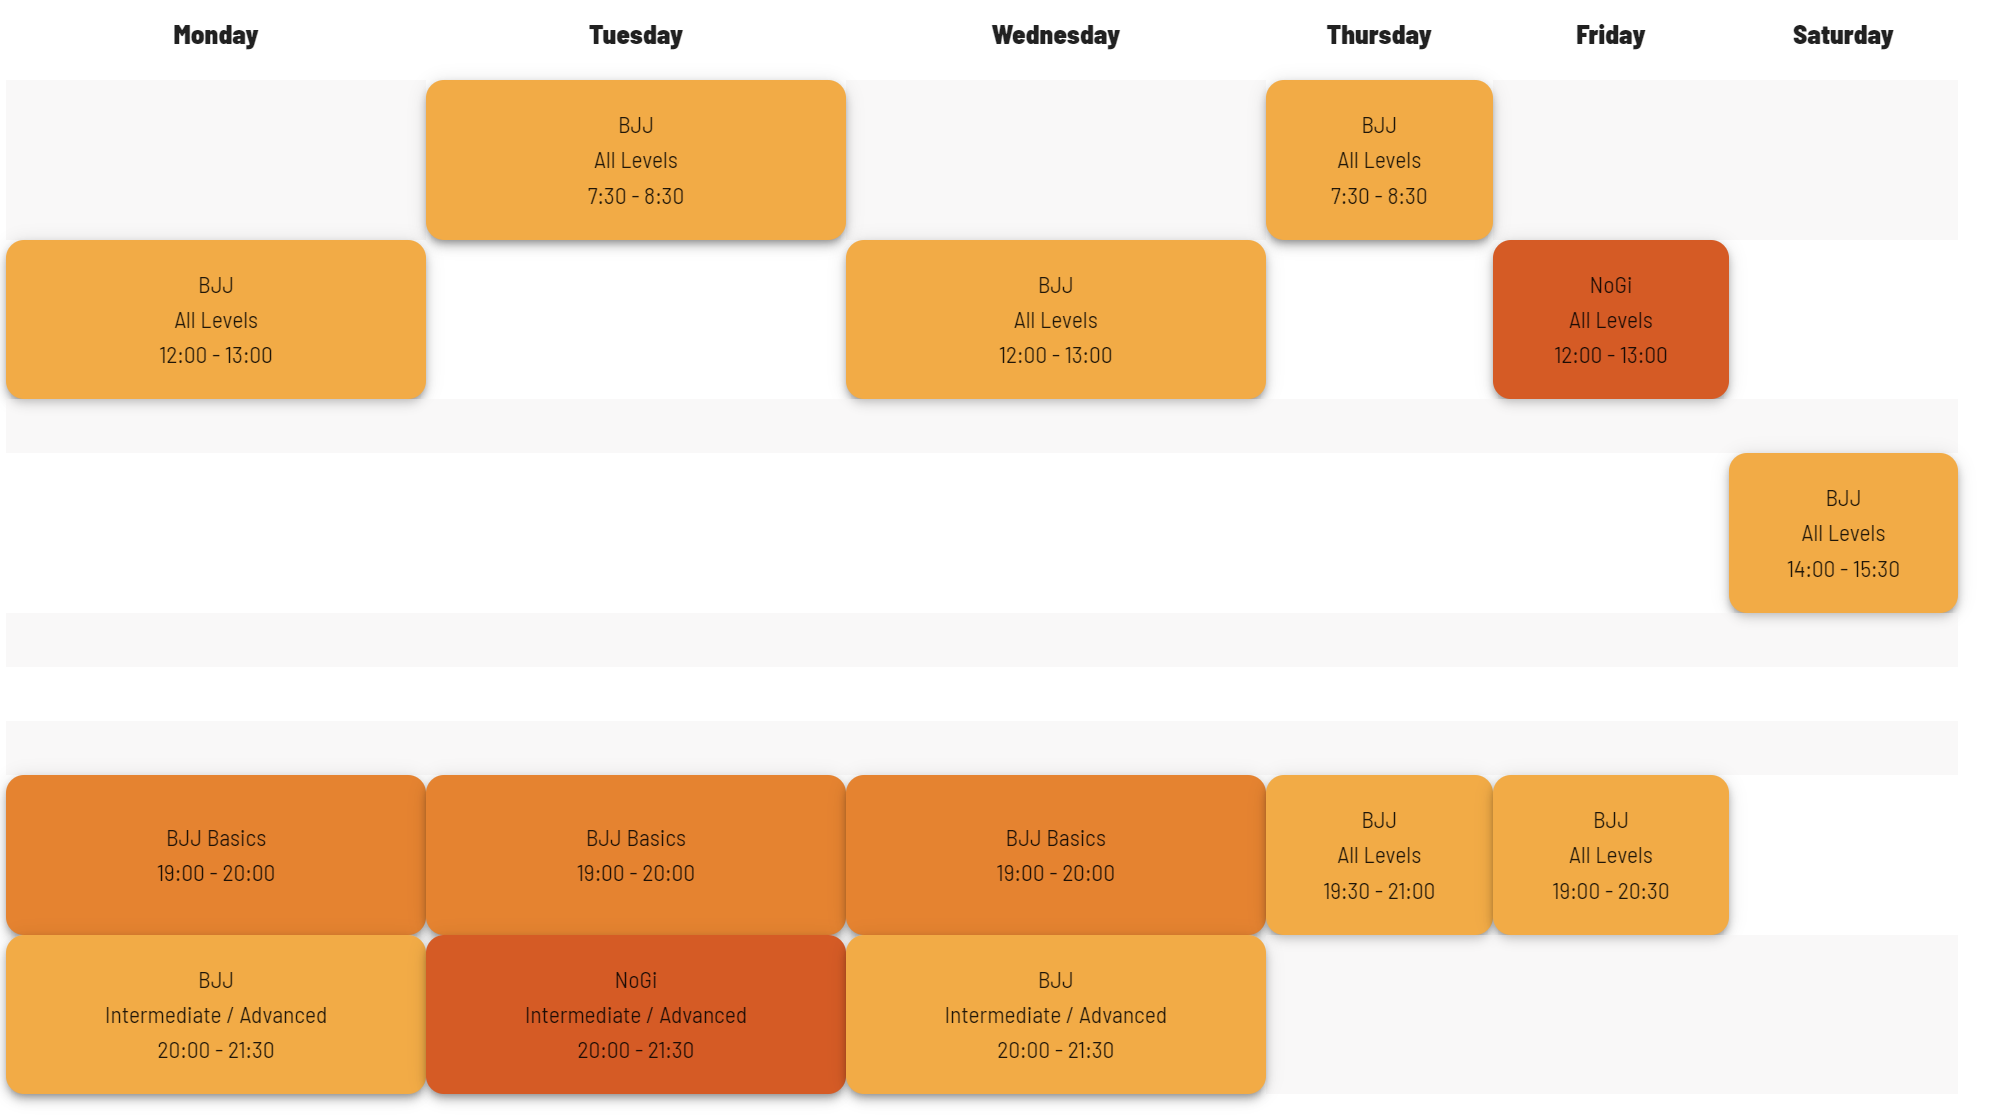
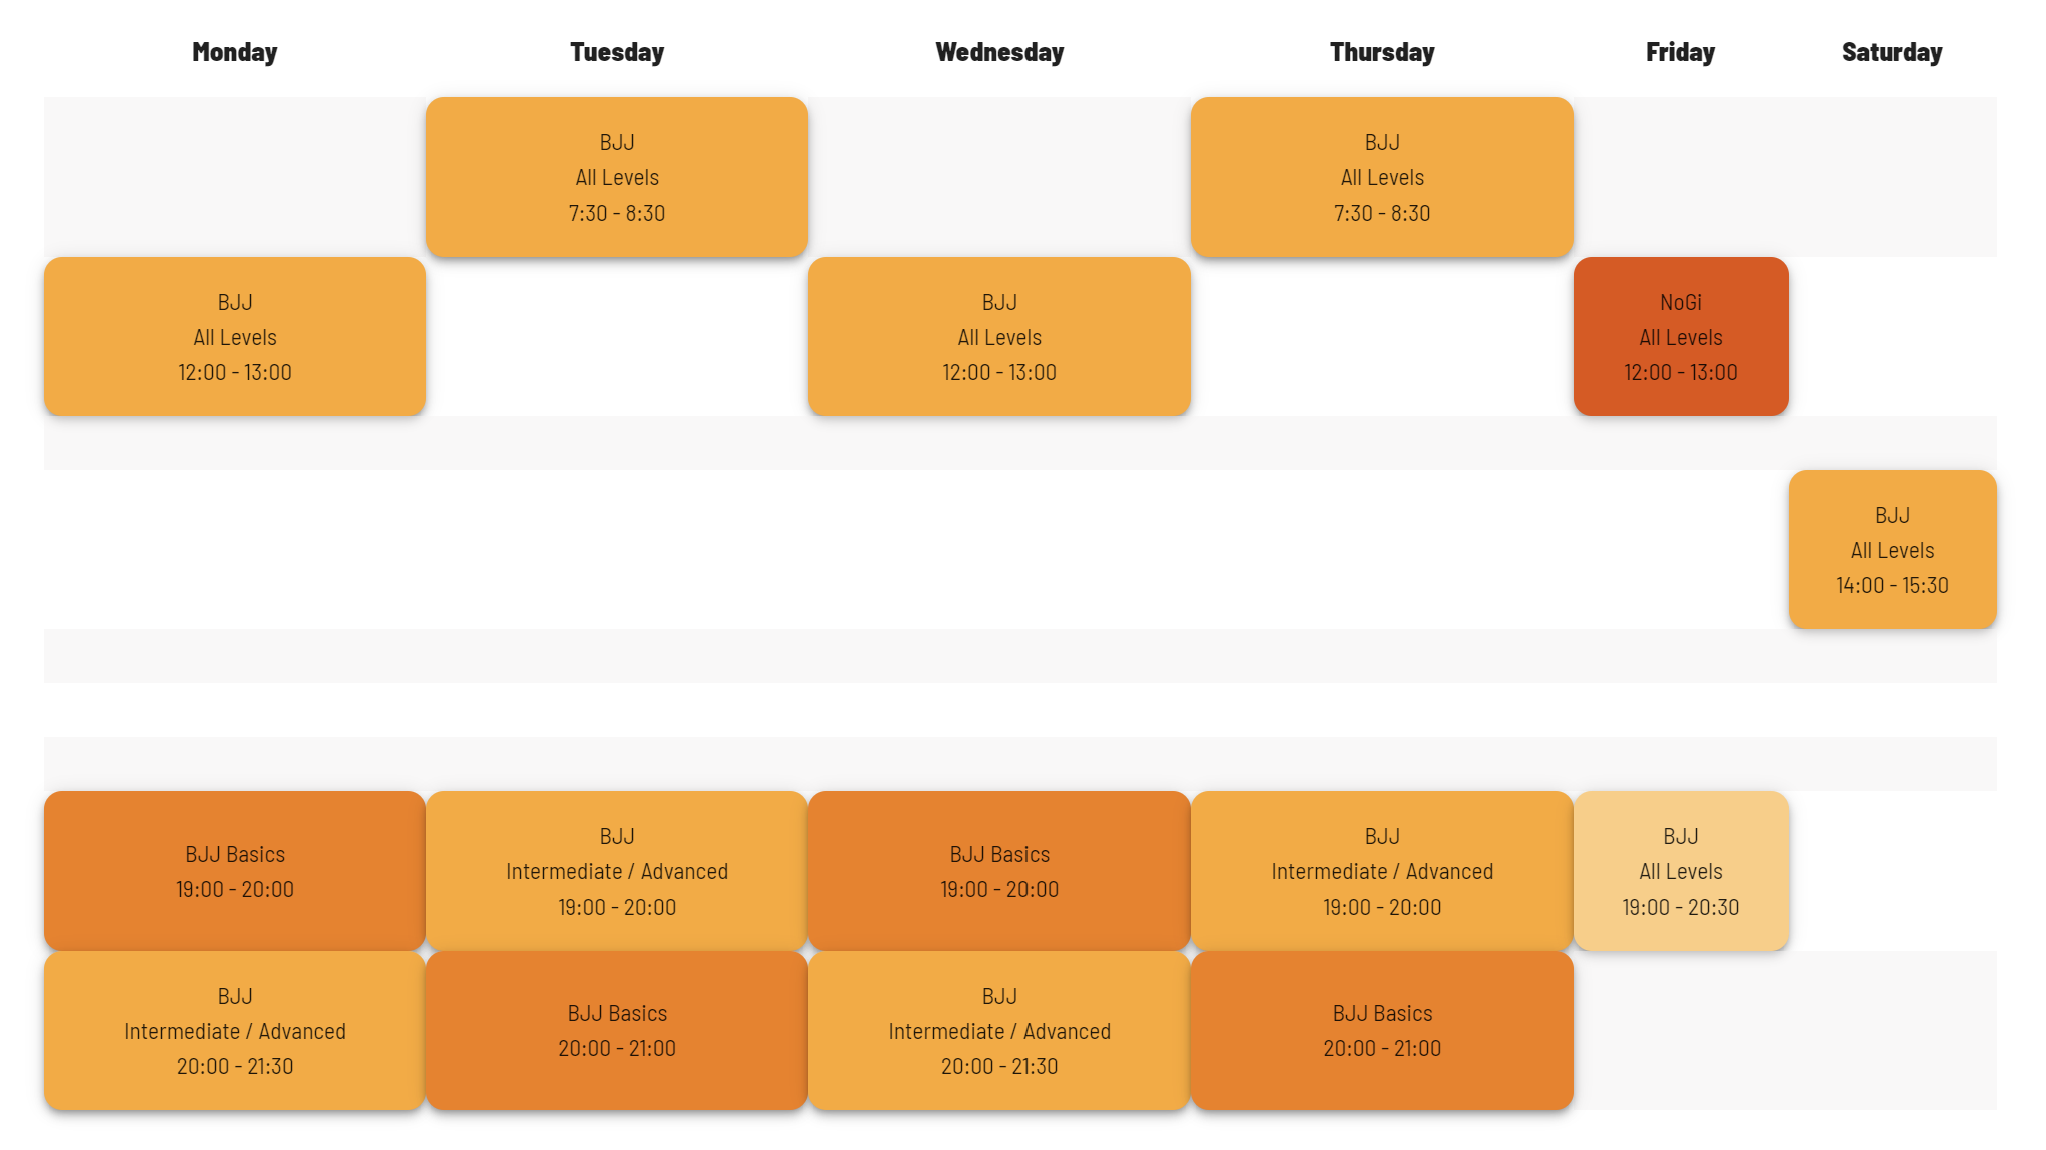
changes adult time tables

diff --git a/src/components/layout/AdultsTable.vue b/src/components/layout/AdultsTable.vue
@@ -75,8 +75,9 @@
 					<p>BJJ Basics</p>
 					<p>19:00 - 20:00</p>
 				</td>
-				<td class="center-align orange darken-2 z-depth-2">
-					<p>BJJ Basics</p>
+				<td class="center-align orange lighten-1 z-depth-2">
+					<p>BJJ</p>
+					<p>Intermediate / Advanced</p>
 					<p>19:00 - 20:00</p>
 				</td>
 				<td class="center-align orange darken-2 z-depth-2">
@@ -85,10 +86,10 @@
 				</td>
 				<td class="center-align orange lighten-1 z-depth-2">
 					<p>BJJ</p>
-					<p>All Levels</p>
-					<p>19:30 - 21:00</p>
+					<p>Intermediate / Advanced</p>
+					<p>19:00 - 20:00</p>
 				</td>
-				<td class="center-align orange lighten-1 z-depth-2">
+				<td class="center-align orange lighten-3 z-depth-2">
 					<p>BJJ</p>
 					<p>All Levels</p>
 					<p>19:00 - 20:30</p>
@@ -101,17 +102,29 @@
 					<p>Intermediate / Advanced</p>
 					<p>20:00 - 21:30</p>
 				</td>
-				<td class="center-align orange darken-4 z-depth-2">
+				<!-- <td class="center-align orange darken-4 z-depth-2">
 					<p>NoGi</p>
 					<p>Intermediate / Advanced</p>
 					<p>20:00 - 21:30</p>
+				</td> -->
+				<!-- <td class="center-align orange lighten-1 z-depth-2">
+					<p>BJJ</p>
+					<p>Intermediate / Advanced</p>
+					<p>20:00 - 21:30</p>
+				</td> -->
+				<td class="center-align orange darken-2 z-depth-2">
+					<p>BJJ Basics</p>
+					<p>20:00 - 21:00</p>
 				</td>
 				<td class="center-align orange lighten-1 z-depth-2">
 					<p>BJJ</p>
 					<p>Intermediate / Advanced</p>
 					<p>20:00 - 21:30</p>
 				</td>
-				<td></td>
+				<td class="center-align orange darken-2 z-depth-2">
+					<p>BJJ Basics</p>
+					<p>20:00 - 21:00</p>
+				</td>
 				<td></td>
 				<td></td>
 			</tr>
